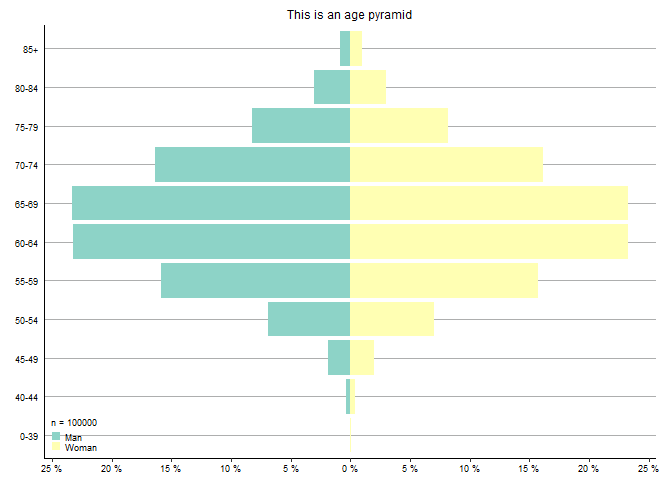
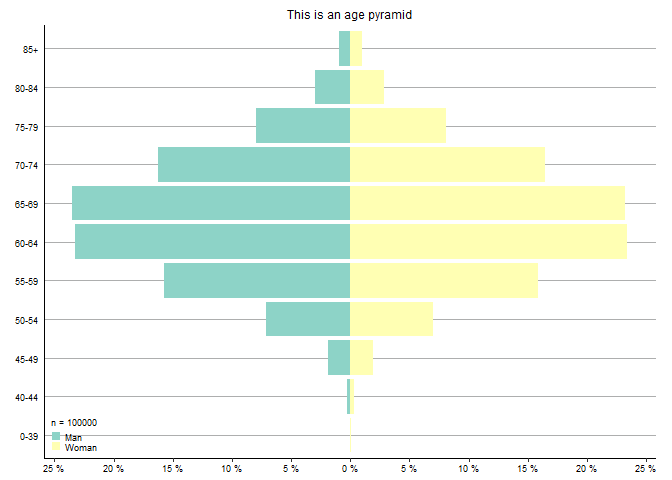
generera dokumentation. Uppdatera README - valt en seed som gör VGR och Blekinge till bäst

diff --git a/README.md b/README.md
@@ -11,11 +11,11 @@ presentations and more.
 ## Installation
 
 You can install the development version from
-[GitHub](https://github.com/) with:
+[GitLab](https://gitlab.com/) with:
 
 ``` r
-# install.packages("devtools")
-devtools::install_github("registercentrum/rcplot")
+install.packages("remotes")
+remotes::install_gitlab("registercentrum/statistikenheten/rcplot")
 ```
 
 ## Examples
@@ -25,7 +25,7 @@ for a comprehensive list.
 
 ``` r
 library(rcplot)
-set.seed(123)
+set.seed(11223344)
 
 # Create some data
 df <- data.frame(
@@ -40,6 +40,7 @@ age_pyramid(df, age_var = 'age', fill_var = 'gender',
 <img src="man/figures/README-example-1.png" width="100%" />
 
 ``` r
+
 # Bar plot
 bar_plot(df = ggplot2::diamonds, x_var = 'color',
          fill_var = 'cut', y_breaks = 2)
@@ -48,6 +49,7 @@ bar_plot(df = ggplot2::diamonds, x_var = 'color',
 <img src="man/figures/README-example-2.png" width="100%" />
 
 ``` r
+
 # KM-plot with 2 levels
 survfit_obj <- survival::survfit(
   survival::Surv(time/365.24, status) ~ sex,
@@ -60,6 +62,7 @@ km_plot(survfit_obj, y_lim = c(0,100), y_breaks = 10, x_lim = c(0,9))
 <img src="man/figures/README-example-3.png" width="100%" />
 
 ``` r
+
 # Line plot
 line_plot(df = ggplot2::diamonds, x_var = 'cut', color_var = 'color', y_breaks = 2)
 ```
@@ -67,6 +70,7 @@ line_plot(df = ggplot2::diamonds, x_var = 'cut', color_var = 'color', y_breaks =
 <img src="man/figures/README-example-4.png" width="100%" />
 
 ``` r
+
 # Map figure of Counties, Sweden
 region_coords <- rcplot::counties
 region_coords[["var"]] <- factor(
@@ -86,6 +90,7 @@ map_plot(
 <img src="man/figures/README-example-5.png" width="100%" />
 
 ``` r
+
 # Map figure of Västra Götalandsregionen
 vgregion <- dplyr::filter(rcplot::municipalities, RegionID == "14")
 
